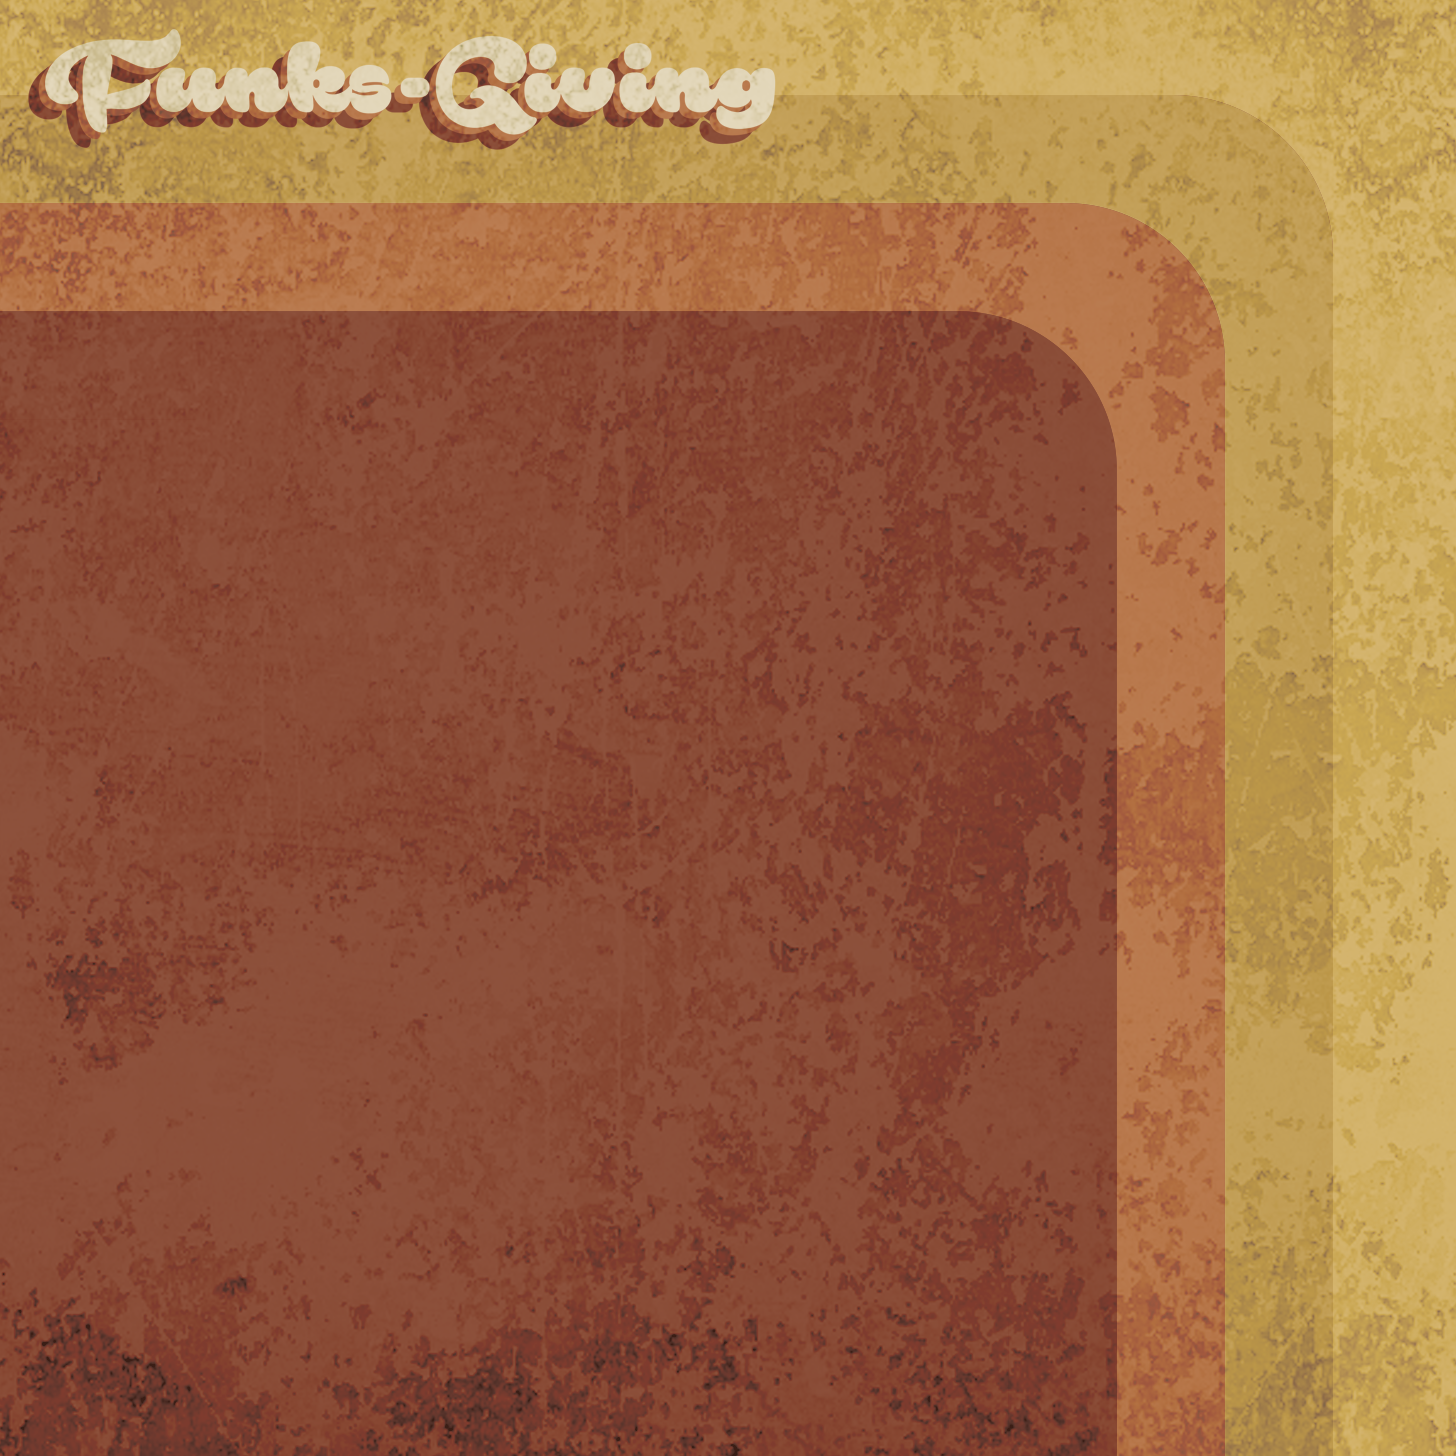
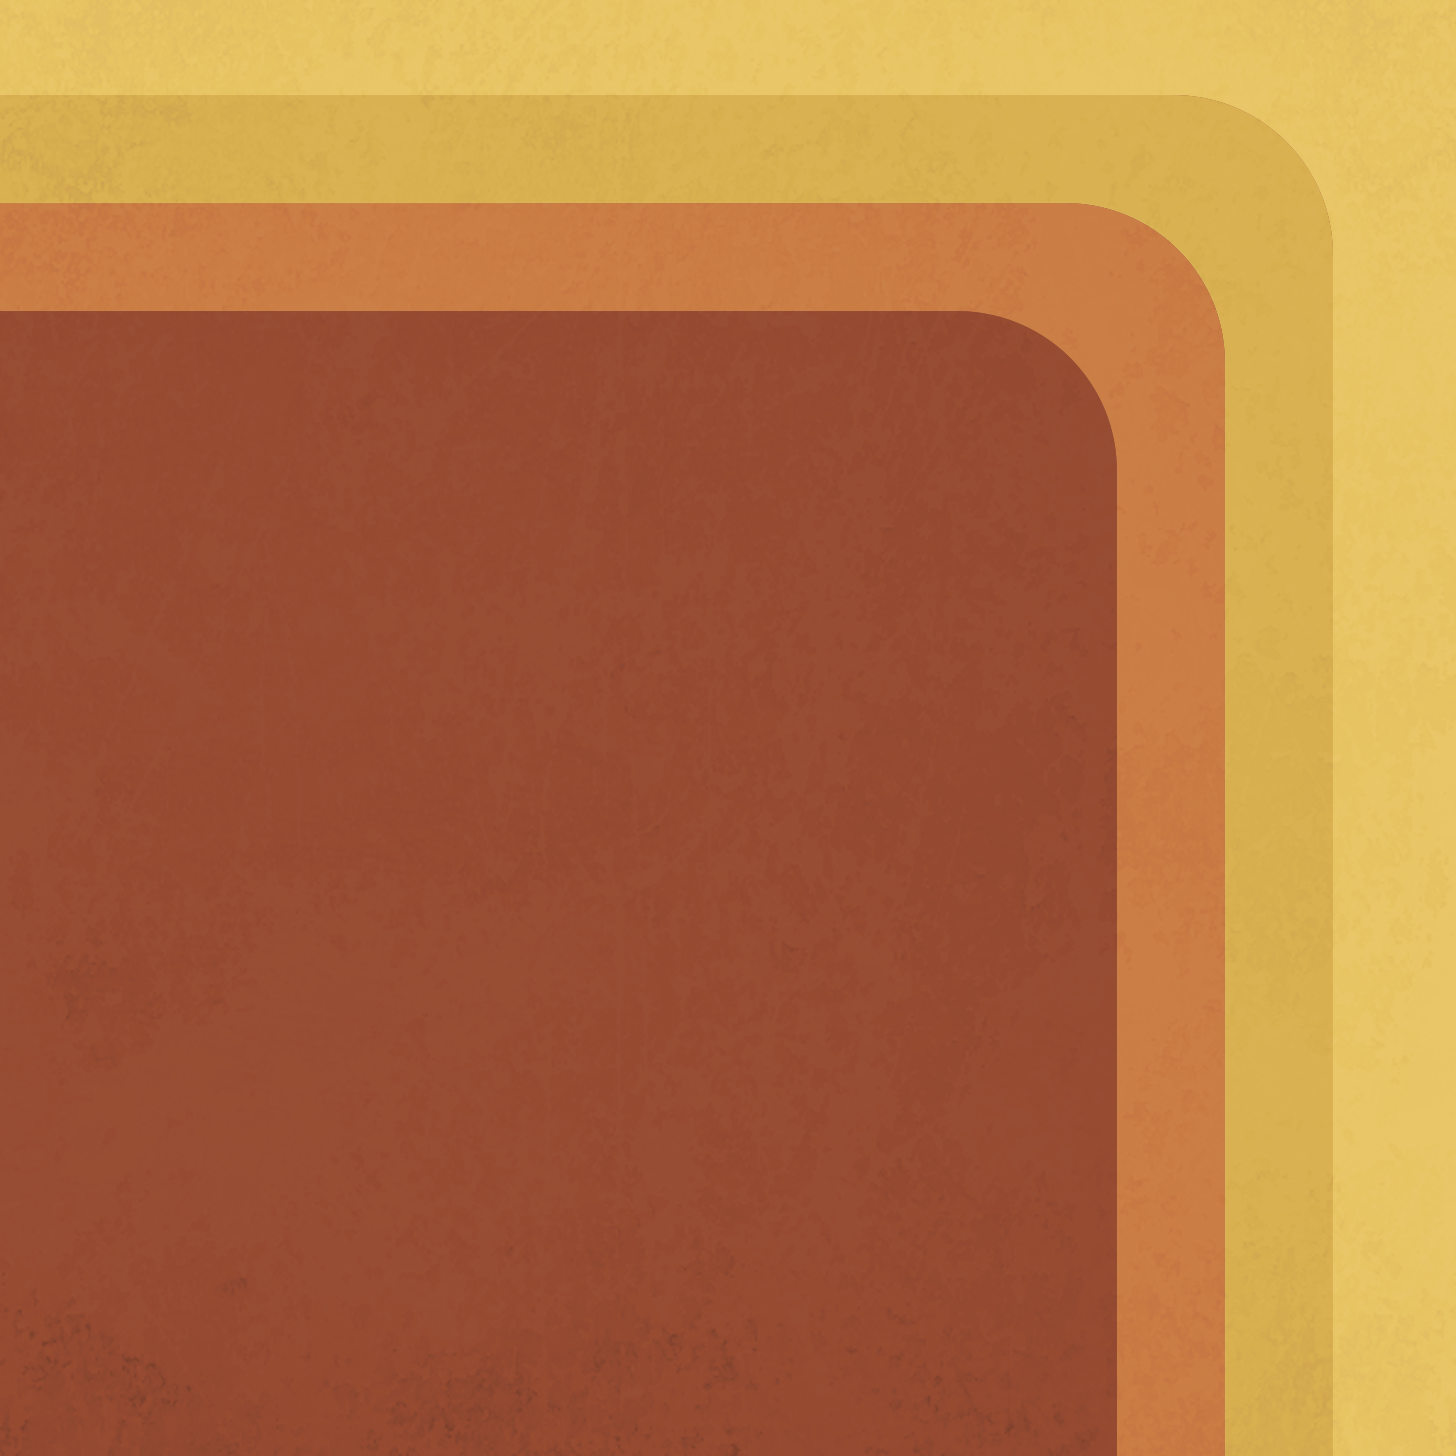
stage updates

diff --git a/src/routes/stage/StagePhotoCarouselEngagement.tsx b/src/routes/stage/StagePhotoCarouselEngagement.tsx
@@ -6,6 +6,9 @@ import {
   useStageGetSubmissionQuery,
 } from "@/gql/graphql";
 import { useEffect, useRef, useState } from "react";
+import useWindowSize from "@/hooks/useWindowSize";
+import { useParamsSafe } from "@/hooks/useParamsSafe";
+import QRCode from "react-qr-code";
 
 interface Photo {
   photoUrl: string;
@@ -18,7 +21,7 @@ interface Photo {
   id: number;
 }
 
-const MAX_PHOTOS = 15;
+const MAX_PHOTOS = 20;
 const initialStyle = {
   opacity: 0,
   transform: "scale(3) rotate(0deg) translate(0, 0)",
@@ -29,6 +32,7 @@ export function StagePhotoCarouselEngagement({
 }: {
   engagement: StageEngagementFragment;
 }) {
+  const { slug } = useParamsSafe("slug");
   const nextPhotoId = useRef(0);
   const visibleSubmissionId = engagement.viewData?.visibleSubmission;
   const [photos, setPhotos] = useState<Photo[]>([]);
@@ -36,6 +40,7 @@ export function StagePhotoCarouselEngagement({
     skip: !visibleSubmissionId,
     variables: { id: visibleSubmissionId },
   });
+  const { width } = useWindowSize();
 
   useEffect(() => {
     if (data?.submission?.data?.photoUrl) {
@@ -51,8 +56,12 @@ export function StagePhotoCarouselEngagement({
               caption: data?.submission?.data?.caption || "",
               rotation: Math.round(Math.random() * 20 - 10),
               scale: 1,
-              translateX: Math.round(Math.random() * 100 - 50),
-              translateY: Math.round(Math.random() * 50 - 25),
+              translateX: Math.round(
+                Math.random() * width * 0.35 - width * 0.05
+              ),
+              translateY: Math.round(
+                Math.random() * width * 0.05 - width * 0.035
+              ),
               id: nextPhotoId.current++,
             },
           ];
@@ -63,24 +72,48 @@ export function StagePhotoCarouselEngagement({
         });
       };
     }
-  }, [data]);
+  }, [data, width]);
 
   return (
-    <div className="flex h-full w-full items-center pb-12 pl-[10vw] pt-24">
-      {photos.map((photo) => (
-        <Polaroid
-          key={photo.id}
-          className="absolute polaroid-fade-in"
-          photoUrl={photo.photoUrl}
-          caption={photo.caption}
-          width="30vw"
-          initialStyle={initialStyle}
-          style={{
-            opacity: 1,
-            transform: `rotate(${photo.rotation}deg) scale(${photo.scale}) translate(${photo.translateX}px, ${photo.translateY}px)`,
-          }}
-        />
-      ))}
+    <div className="flex h-full w-full items-center">
+      <div className="h-full w-1/2 pl-[10vw] pt-[25vh]">
+        {photos.map((photo) => (
+          <Polaroid
+            key={photo.id}
+            className="absolute polaroid-fade-in"
+            photoUrl={photo.photoUrl}
+            caption={photo.caption}
+            width="30vw"
+            initialStyle={initialStyle}
+            style={{
+              opacity: 1,
+              transform: `rotate(${photo.rotation}deg) scale(${photo.scale}) translate(${photo.translateX}px, ${photo.translateY}px)`,
+            }}
+          />
+        ))}
+      </div>
+      <div className="flex h-full w-1/2 flex-col items-end justify-end">
+        <div
+          className={`
+            mb-4 mr-4 flex flex-col items-center rounded-lg bg-[#fae1aa] p-4
+          `}
+        >
+          <p
+            className={`text-center font-hand text-5xl text-[#894c37]`}
+            style={{ width: `${width * 0.15}px` }}
+          >
+            Only scan this if you're cool
+          </p>
+          <QRCode
+            value={`${window.location.origin}/e/${slug}`}
+            size={width * 0.15}
+            level="L"
+            fgColor="#894c37"
+            bgColor="#fae1aa77"
+            className="mt-4"
+          />
+        </div>
+      </div>
     </div>
   );
 }

diff --git a/src/routes/stage/Funksgiving/FunksGivingStage.tsx b/src/routes/stage/Funksgiving/FunksGivingStage.tsx
@@ -1,14 +1,9 @@
-import QRCode from "react-qr-code";
 import { useStageEvent } from "@/hooks/useStageEvent";
-import { useParamsSafe } from "@/hooks/useParamsSafe";
 import { StageActiveEngagement } from "../StageActiveEngagement";
 import { useFunksgivingBackground } from "./useFunksgivingBackground";
-import useWindowSize from "@/hooks/useWindowSize";
 
 export function FunksGivingStage() {
-  const { slug } = useParamsSafe("slug");
   const { data } = useStageEvent("funksgiving");
-  const { width } = useWindowSize();
 
   useFunksgivingBackground();
 
@@ -18,40 +13,28 @@ export function FunksGivingStage() {
         flex h-screen w-screen flex-col items-center justify-center gap-4
       `}
     >
-      <div
-        className={`
-          absolute right-4 top-4 flex h-screen flex-col items-center
-          justify-center space-x-4
-        `}
-      >
-        <div className="flex flex-col items-center">
-          <p className="text-center font-hand text-6xl text-[#894c37]">
-            Only scan this
-            <br /> if you're cool
-          </p>
-          <div className="mb-4 mt-2 text-6xl">👇</div>
-          <div className="rounded-lg bg-[#fae1aa77] p-4">
-            <QRCode
-              value={`${window.location.origin}/e/${slug}`}
-              size={width * 0.15}
-              level="L"
-              fgColor="#894c37"
-              bgColor="#fae1aa77"
-            />
-          </div>
-        </div>
+      {/* funksgiving logo */}
+      <img
+        className="absolute left-1/2 top-[2vw] -translate-x-1/2"
+        src="/funksgiving-fan-title.png"
+        style={{ width: "50vw" }}
+      />
+      {/* top right logo and text */}
+      <div className="absolute right-[3vw] top-[0.5vw]">
+        <p className="relative -left-10 font-hand text-4xl text-[#593312]">
+          ...an evening with
+        </p>
+        <img src="/funksgiving-logo.svg" style={{ width: "17vw" }} />
       </div>
+
+      {/* active engagement */}
       {data?.event?.activeEngagement ? (
         <StageActiveEngagement event={data.event} />
       ) : (
         <>
           <h1>Welcome to FunksGiving!</h1>
-          <p>
-            Scan the following QR code on your phone to be in on the action.
-          </p>
         </>
       )}
-      {/* <CodeBlock json={data} /> */}
     </div>
   );
 }
